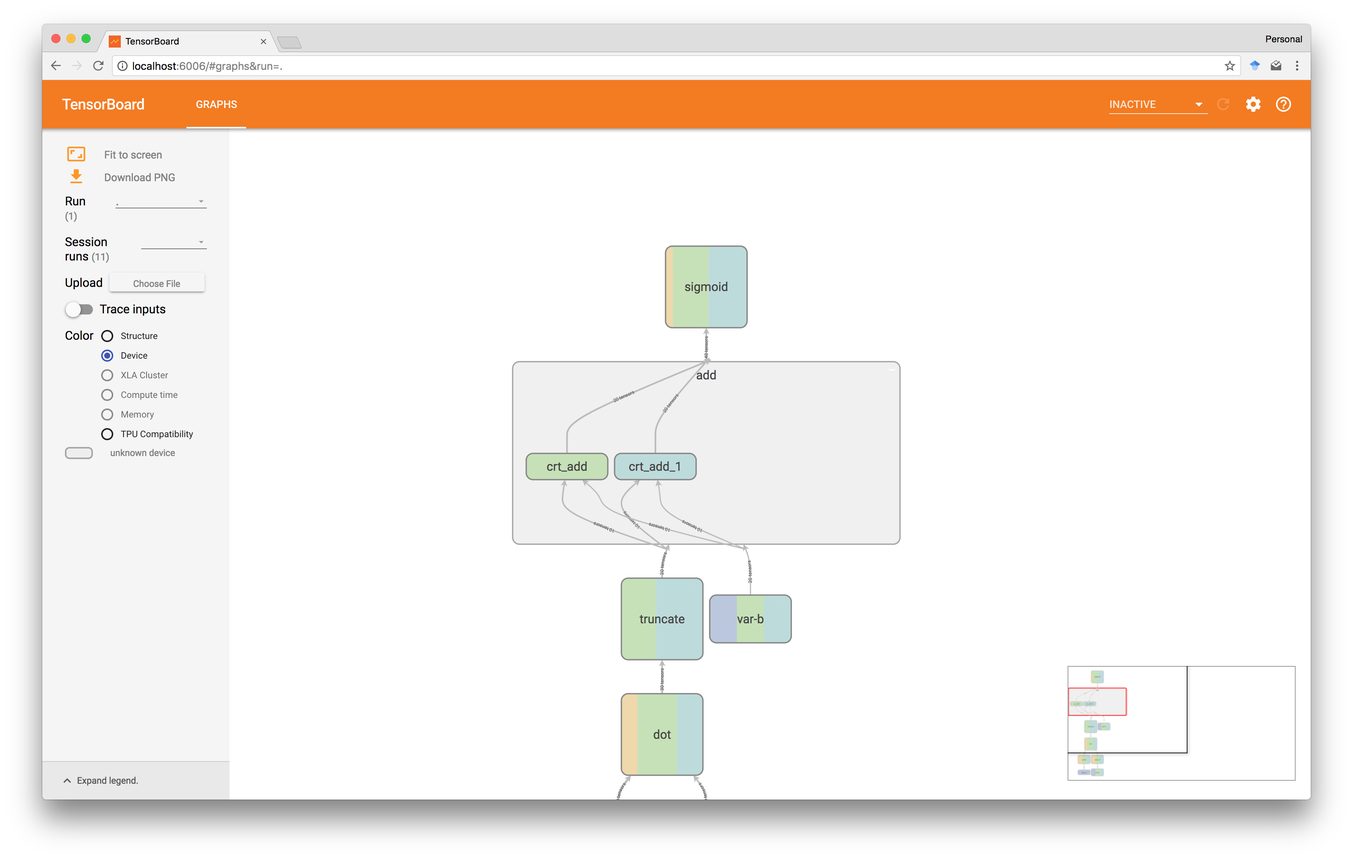
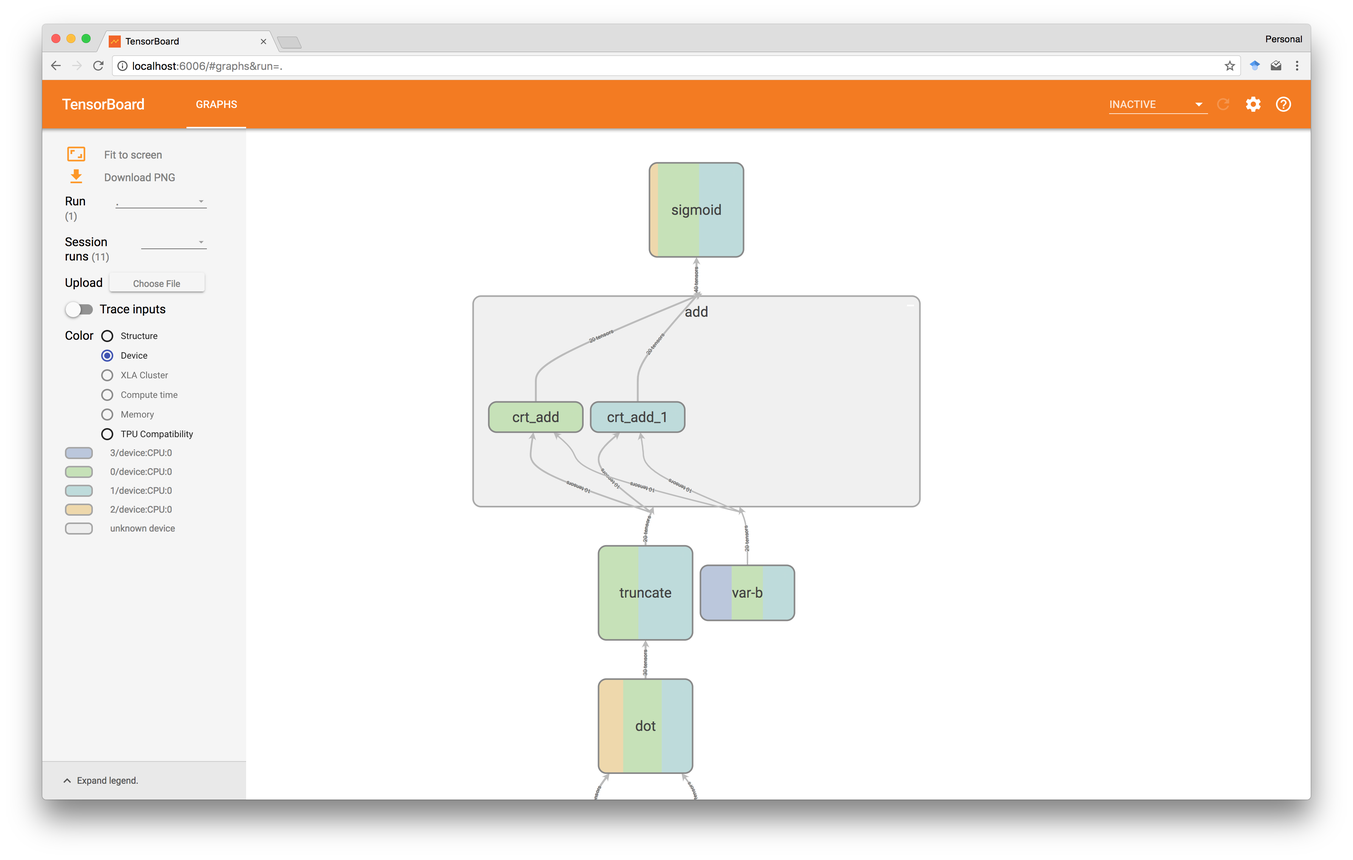
..

diff --git a/_posts/2018-03-01-secure-computation-as-dataflow-programs.md b/_posts/2018-03-01-secure-computation-as-dataflow-programs.md
@@ -7,8 +7,6 @@ author:     "Morten Dahl"
 header-img: "assets/tensorspdz/tensorflow.png"
 ---
 
-<em><strong>Small changes are still likely to happen for this post.</strong></em> 
-
 <em><strong>TL;DR:</strong> using TensorFlow as a distributed computation framework for dataflow programs we give a full implementation of the SPDZ protocol with networking, in turn enabling optimised machine learning on encrypted data.</em> 
 
 Unlike [earlier](/2017/09/03/the-spdz-protocol-part1/) where we focused on the concepts behind secure computation as well as [potential applications](/2017/09/19/private-image-analysis-with-mpc/), here we build a fully working (passively secure) implementation with players running on different machines and communicating via typical network stacks. And as part of this we investigate the benefits of using a [modern distributed computation](https://en.wikipedia.org/wiki/Dataflow_programming) platform when experimenting with secure computations, as opposed to building everything from scratch.
@@ -17,18 +15,18 @@ Additionally, this can also be seen as a step in the direction of getting privat
 
 Jumping ahead, it is clear in retrospect that TensorFlow is an obvious candidate framework for quickly experimenting with secure computation protocols, not least in the context of private machine learning.
 
-As always [all code](#running-the-code) is available to play with, in this case either locally or on [GCP](https://cloud.google.com/compute/). To keep it simple our running example throughout is private prediction using [logistic](https://beckernick.github.io/logistic-regression-from-scratch/) [regression](https://github.com/ageron/handson-ml/blob/master/04_training_linear_models.ipynb), meaning that given a private (i.e. encrypted) input `x` we wish to securely compute `sigmoid(dot(w, x) + b)` for private but pre-trained weights `w` and bias `b`. In a follow-up we consider private training of `w` and `b`.
+As always [all code](#experiments) is available to play with, in this case either locally or on [GCP](https://cloud.google.com/compute/). To keep it simple our running example throughout is private prediction using [logistic](https://beckernick.github.io/logistic-regression-from-scratch/) [regression](https://github.com/ageron/handson-ml/blob/master/04_training_linear_models.ipynb), meaning that given a private (i.e. encrypted) input `x` we wish to securely compute `sigmoid(dot(w, x) + b)` for private but pre-trained weights `w` and bias `b`. In a follow-up we consider private training of `w` and `b`.
 
-<em>A big thank you goes out to [Andrew Trask](https://twitter.com/iamtrask), [Kory Mathewson](https://twitter.com/korymath), and the [OpenMined community](https://twitter.com/openminedorg) for inspiration and interesting discussions on this topic!</em>
+<em>A big thank you goes out to [Andrew Trask](https://twitter.com/iamtrask), [Kory Mathewson](https://twitter.com/korymath), [Jan Leike](https://twitter.com/janleike), and the [OpenMined community](https://twitter.com/openminedorg) for inspiration and interesting discussions on this topic!</em>
 
-<em><strong>Disclaimer</strong>: this implementation is meant for experimentation only and may not live up to required security. In particular, TensorFlow does not currently seem to have been designed with this application in mind, and although it does not appear to be the case right now, may for instance in future versions perform optimisations behind that scene that break the intended security properties. [More notes](#next-steps) below.</em>
+<em><strong>Disclaimer</strong>: this implementation is meant for experimentation only and may not live up to required security. In particular, TensorFlow does not currently seem to have been designed with this application in mind, and although it does not appear to be the case right now, may for instance in future versions perform optimisations behind that scene that break the intended security properties. [More notes below](#next-steps).</em>
 
 
 # Motivation
 
 As hinted above, implementing secure computation protocols such as [SPDZ](/2017/09/03/the-spdz-protocol-part1/) is a non-trivial task due to their distributed nature, which is only made worse when we start to introduce various optimisations ([but](https://github.com/rdragos/awesome-mpc) [it](https://github.com/bristolcrypto/SPDZ-2) [can](https://github.com/aicis/fresco) [be](http://oblivc.org/) [done](https://github.com/encryptogroup/ABY)). For instance, one has to consider how to best orchestrate the simultanuous execution of multiple programs, how to minimise the overhead of sending data across the network, and how to efficient interleave it with computation so that one server only rarely waits on the other. On top of that, we might also want to support different hardware platforms, including for instance both CPUs and GPUs, and for any serious work it is highly valuable to have tools for visual inspection, debugging, and profiling in order to identify issues and bottlenecks.
 
-It should furthermore also be easy to experiment with various optimisations, such as transforming the computation for improved performance, [reusing intermediate results and masked values](/2017/09/19/private-image-analysis-with-mpc/#generalised-triples), and supplying fresh "raw material" in the form of [triples](/2017/09/03/the-spdz-protocol-part1/#multiplication) during the execution instead of only generating a large batch ahead of time in an offline phase. Getting all this right can be overwhelming, which is one reason earlier blog posts here focused on the principles behind secure computation protocols and simply did everything locally. 
+It should furthermore also be easy to experiment with various optimisations, such as transforming the computation for improved performance, [reusing intermediate results and masked values](/2017/09/19/private-image-analysis-with-mpc/#generalised-triples), and supplying fresh "raw material" in the form of [triples](/2017/09/03/the-spdz-protocol-part1/#multiplication) during the execution instead of only generating a large batch ahead of time in an offline phase. Getting all this right can be overwhelming, which is one reason our earlier blog posts focused on the principles behind secure computation protocols and simply did everything locally. 
 
 Luckily though, modern distributed computation frameworks such as [TensorFlow](https://www.tensorflow.org/) are receiving a lot of research and engineering attention these days due to their use in advanced machine learning on large data sets. And since our focus is on private machine learning there is a natural large fundamental overlap. In particular, the secure operations we are interested in are tensor addition, subtraction, multiplication, dot products, truncation, and sampling, which all have insecure but highly optimised counterparts in TensorFlow.
 
@@ -41,16 +39,16 @@ One important note though is that TensorFlow works by first constructing a stati
 
 ![](/assets/tensorspdz/structure.png)
 
-This means that our efforts in this post are concerned with building such a graph, as opposed to actual execution as earlier: we are to some extend making a small compiler that translates secure computations expressed in a simple language into TensorFlow programs. As a result we benefit not only from working at a higher level of abstraction but also from the large amount of research and engineering that have already gone into optimising graph execution in TensorFlow.
+This means that our efforts in this post are concerned with building such a graph, as opposed to actual execution as earlier: we are to some extend making a small compiler that translates secure computations expressed in a simple language into TensorFlow programs. As a result we benefit not only from working at a higher level of abstraction but also from the large amount of efforts that have already gone into optimising graph execution in TensorFlow.
 
-See [the code](#running-the-code) for a full example.
+See the [experiments](#experiments) for a full example.
 
 
 # Basics
 
 Our needs fit nicely with the operations already provided by TensorFlow as seen next, with one main exception: to match typical precision of floating point numbers when instead working with [fixedpoint numbers](/2017/09/03/the-spdz-protocol-part1/#fixedpoint-numbers) in the secure setting, we end up encoding into and operating on integers that are larger than what fits in the typical word sizes of 32 or 64 bits, yet today these are the only sizes for which TensorFlow provides operations (a constraint that may have something to do with current support on GPUs).
 
-Luckily though, for the operations we need there are efficient ways around this that allow us to simulate arithmetic on tensors of ~120 bit integers using a list of tensors with identical shape but of e.g. 32 bit integers. And this decomposition moreover has the nice property that we can often operate on each tensor in the list independently, so in addition to enabling the use of TensorFlow, this also allows most operations to be performed in parallel and can actually [increase efficiency](https://en.wikipedia.org/wiki/Residue_number_system) compared to operating on single larger numbers although it may initially sound more expensive. 
+Luckily though, for the operations we need there are efficient ways around this that allow us to simulate arithmetic on tensors of ~120 bit integers using a list of tensors with identical shape but of e.g. 32 bit integers. And this decomposition moreover has the nice property that we can often operate on each tensor in the list independently, so in addition to enabling the use of TensorFlow, this also allows most operations to be performed in parallel and can actually [increase efficiency](https://en.wikipedia.org/wiki/Residue_number_system) compared to operating on single larger numbers, despite the fact that it may initially sound more expensive. 
 
 We discuss the [details](/2018/01/29/the-chinese-remainder-theorem/) of this elsewhere and for the rest of this post simply assume operations `crt_add`, `crt_sub`, `crt_mul`, `crt_dot`, `crt_mod`, and `sample` that performed the expected operations on lists of tensors. Note that `crt_mod`, `crt_mul`, and `crt_sub` together allow us to define a right shift operation for [fixedpoint truncation](/2017/09/03/the-spdz-protocol-part1/#fixedpoint-numbers).
 
@@ -69,9 +67,13 @@ class PrivateTensor:
     @property
     def shape(self):
         return self.share0[0].shape
+        
+    @property
+    def unwrapped(self):
+        return self.share0, self.share1
 ```
 
-Note that thanks to TensorFlow we can know the tensor shapes at graph creation time, meaning we don't have to keep track of this ourselves.
+And thanks to TensorFlow we can know the shape of tensors at graph creation time, meaning we don't have to keep track of this ourselves.
 
 
 ## Simple operations
@@ -83,8 +85,8 @@ def add(x, y):
     assert isinstance(x, PrivateTensor)
     assert isinstance(y, PrivateTensor)
     
-    x0, x1 = x.share0, x.share1
-    y0, y1 = y.share0, y.share1
+    x0, x1 = x.unwrapped
+    y0, y1 = y.unwrapped
     
     with tf.name_scope('add'):
     
@@ -106,20 +108,20 @@ The [`tf.name_scope()`](https://www.tensorflow.org/api_docs/python/tf/name_scope
 
 ![](/assets/tensorspdz/add.png)
 
-Note that by selecting *Device* coloring in TensorBoard we can also use it to verify where the operations were actually computed, in this case checking that addition was indeed done locally by the two servers (green and turquoise).
+Note that by selecting *Device* coloring in TensorBoard as done above we can also use it to verify where the operations were actually computed, in this case that addition was indeed done locally by the two servers (green and turquoise).
 
 
 ## Dot products
 
-We next turn to dot products. This is significantly more complexity, not least since we now need to involve the crypto producer, but also since the two servers have to communicate with each other as part of the computation.
+We next turn to dot products. This is more complex, not least since we now need to involve the crypto producer, but also since the two servers have to communicate with each other as part of the computation.
 
 ```python
 def dot(x, y):
     assert isinstance(x, PrivateTensor)
     assert isinstance(y, PrivateTensor)
 
-    x0, x1 = x.share0, x.share1
-    y0, y1 = y.share0, y.share1
+    x0, x1 = x.unwrapped
+    y0, y1 = y.unwrapped
 
     with tf.name_scope('dot'):
 
@@ -169,7 +171,7 @@ However, with `tf.device()` we see that this is still relatively straight-forwar
 
 With `crt_sub` we then build graphs for the two servers that mask `x` and `y` using `a` and `b` respectively. TensorFlow will again take care of inserting networking code that sends the value of e.g. `a0` to `SERVER_0` during execution.
 
-In the third step we then reconstruct `alpha` and `beta` on each server, and compute the recombination step to get the dot product. Note that we have to define `alpha` and `beta` twice, one for each server, since although they contain the same value, if we had instead define them only on one server but used them on both, then we would implicitly have inserted additional networking operations and hence slowed down the computation.
+In the third step we reconstruct `alpha` and `beta` on each server, and compute the recombination step to get the dot product. Note that we have to define `alpha` and `beta` twice, one for each server, since although they contain the same value, if we had instead define them only on one server but used them on both, then we would implicitly have inserted additional networking operations and hence slowed down the computation.
 
 ![](/assets/tensorspdz/dot.png)
 
@@ -190,17 +192,19 @@ INPUT_PROVIDER  = '/job:{}/task:3'.format(JOB_NAME)
 OUTPUT_RECEIVER = '/job:{}/task:4'.format(JOB_NAME)
 
 HOSTS = [
-    'localhost:4440',
-    'localhost:4441',
-    'localhost:4442',
-    'localhost:4443',
-    'localhost:4444'
+    '10.132.0.4:4440',
+    '10.132.0.5:4441',
+    '10.132.0.6:4442',
+    '10.132.0.7:4443',
+    '10.132.0.8:4444',
 ]
 
 CLUSTER = tf.train.ClusterSpec({
     JOB_NAME: HOSTS
 })
 ```
+
+<em>Note that in the screenshots we are actually running the input provider and output receiver on the same host, and hence both show up as `3/device:CPU:0`.</em>
 
 Finally, the code that each player executes is about as simple as it gets.
 
@@ -222,7 +226,7 @@ With the basics in place we can look at a few optimisations.
 
 Our first improvement allows us to reuse computations. For instance, if we need the result of `dot(x, y)` twice then we want to avoid computing it a second time and instead reuse the first. Concretely, we want to keep track of nodes in the graph and link back to them whenever possible.
 
-To do this we simply maintain a glocal dictionary of `PrivateTensor` references as we build the graph, and use this for looking up already existing results before adding new nodes. For instance, `dot` now becomes as follows.
+To do this we simply maintain a global dictionary of `PrivateTensor` references as we build the graph, and use this for looking up already existing results before adding new nodes. For instance, `dot` now becomes as follows.
 
 ```python
 def dot(x, y):
@@ -248,11 +252,9 @@ While already significant for some applications, this change also opens up for o
 
 ## Reusing masked tensors
 
-We have [already](/2017/09/10/the-spdz-protocol-part2/) [mentioned](/2017/09/19/private-image-analysis-with-mpc/#generalised-triples) that we'd ideally want to only mask every private tensor once to primarily save on networking. For instance, if we are computing both `dot(w, x)` and `dot(w, y)` then we want to use the same masked version of `w` in both: if we are e.g. doing multiple predictions with the same weights `w` then in the long term the initial cost of masking `w` can be amortised away.
+We have [already](/2017/09/10/the-spdz-protocol-part2/) [mentioned](/2017/09/19/private-image-analysis-with-mpc/#generalised-triples) that we'd ideally want to mask every private tensor at most once to primarily save on networking. For instance, if we are computing both `dot(w, x)` and `dot(w, y)` then we want to use the same masked version of `w` in both. Specifically, if we are doing many operations with the same masked tensor then the cost of masking it can be amortised away.
 
-To implement this we first note that the [dataflow nature](https://arxiv.org/abs/1603.04467) of TensorFlow will take care of only recomputing the parts of the graph that actually change when the input values are changed. For instance, an application that computes `dot(w, x)` will reuse the value of `w` between executions with different values of `x` (unless of course `w` somehow depends on `x` elsewhere). However, with the current setup we will still mask `w` every time we compute `dot`.
-
-To avoid this we simply make masking an explicit `mask` operation, which also allows us to use the same masked version across different operations, e.g. both `dot` and `mul`.
+But with the current setup we mask every time we compute e.g. `dot` or `mul` since masking is baked into these. So to avoid this we simply make masking an explicit operation, additionally allowing us to also use the same masked version across different operations.
 
 ```python
 def mask(x):
@@ -260,10 +262,10 @@ def mask(x):
     
     node_key = ('mask', x)
     masked = nodes.get(node_key, None)
-    
+
     if masked is None:
       
-        x0, x1 = x.share0, x.share1
+        x0, x1 = x.unwrapped
         shape = x.shape
       
         with tf.name_scope('mask'):
@@ -281,34 +283,56 @@ def mask(x):
             # exchange of alphas
 
             with tf.device(SERVER_0):
-                alpha = reconstruct(alpha0, alpha1)
-                alpha_on_0 = alpha
+                alpha_on_0 = reconstruct(alpha0, alpha1)
 
             with tf.device(SERVER_1):
-                alpha = reconstruct(alpha0, alpha1)
-                alpha_on_1 = alpha
+                alpha_on_1 = reconstruct(alpha0, alpha1)
 
-        masked = (a, a0, a1, alpha_on_0, alpha_on_1)
+        masked = MaskedPrivateTensor(a, a0, a1, alpha_on_0, alpha_on_1)
         nodes[node_key] = masked
         
     return masked
 ```
 
+Note that we introduce a `MaskedPrivateTensor` class as part of this, which is again simply a convenient way of abstracting over the five lists of tensors we get from `mask(x)`.
+
+```python
+class MaskedPrivateTensor(object):
+
+    def __init__(self, a, a0, a1, alpha_on_0, alpha_on_1):
+        self.a  = a
+        self.a0 = a0
+        self.a1 = a1
+        self.alpha_on_0 = alpha_on_0
+        self.alpha_on_1 = alpha_on_1
+
+    @property
+    def shape(self):
+        return self.a[0].shape
+
+    @property
+    def unwrapped(self):
+        return self.a, self.a0, self.a1, self.alpha_on_0, self.alpha_on_1
+```
+
+
 With this we may rewrite `dot` as below, which is now only responsible for the recombination step.
 
 ```python
 def dot(x, y):
-    assert isinstance(x, PrivateTensor)
-    assert isinstance(y, PrivateTensor)
+    assert isinstance(x, PrivateTensor) or isinstance(x, MaskedPrivateTensor)
+    assert isinstance(y, PrivateTensor) or isinstance(y, MaskedPrivateTensor)
 
     node_key = ('dot', x, y)
     z = nodes.get(node_key, None)
 
     if z is None:
+      
+        if isinstance(x, PrivateTensor): x = mask(x)
+        if isinstance(y, PrivateTensor): y = mask(y)
 
-        # make sure we have masked version of both inputs
-        a, a0, a1, alpha_on_0, alpha_on_1 = mask(x)
-        b, b0, b1,  beta_on_0,  beta_on_1 = mask(y)
+        a, a0, a1, alpha_on_0, alpha_on_1 = x.unwrapped
+        b, b0, b1,  beta_on_0,  beta_on_1 = y.unwrapped
 
         with tf.name_scope('dot'):
 
@@ -344,57 +368,80 @@ As a verification we can see that TensorBoard shows us the expected graph struct
 
 Here the value of `square(x)` is first computed, then masked, and finally reused in four multiplications.
 
+There is an inefficiency though: while the [dataflow nature](https://arxiv.org/abs/1603.04467) of TensorFlow will in general take care of only recomputing the parts of the graph that have changed between two executions, this does not apply to operations involving sampling via e.g. [`tf.random_uniform`](https://www.tensorflow.org/api_docs/python/tf/random_uniform), which is used in our sharing and masking. Consequently, masks are not being reused across executions.
+
+
+## Caching values
+
+To get around the above issue we can introduce caching of values that survive across different executions of the graph, and an easy way of doing this is to store tensors in [variables](https://www.tensorflow.org/api_docs/python/tf/Variable). Normal executions will read from these, while an explicit `cache_populators` set of operations allow us to populated them.
+
+For example, wrapping our two tensors `w` and `b` with such `cache` operation gets us the above graph.
+
+![](/assets/tensorspdz/cached.png)
+
+When executing the cache population operations TensorFlow automatically figures out which subparts of the graph it needs to execute to generate the values to be cached, and which can be ignored.
+
+![](/assets/tensorspdz/cached-populate.png)
+
+And likewise when predicting, in this case skipping sharing and masking.
+
+![](/assets/tensorspdz/cached-predict.png)
+
+
 
 ## Buffering triples
 
 Recall that a main purpose of [triples](/2017/09/03/the-spdz-protocol-part1/#multiplication) is to move the computation of the crypto producer to an *offline phase* and distribute its results to the two servers ahead of time in order to speed up their computation later during the *online phase*. 
 
-So far we haven't done anything to specify that this should happen though, and from reading the above code it's not unreasonable to assume that the crypto producer will instead compute in synchronisation with the two servers, injecting idle waiting periods throughout their computation. However, from experiments it seems that TensorFlow is smart enough here to optimise the graph to do the right thing and batch triple distribution, presumably to save on networking.
+So far we haven't done anything to specify that this should happen though, and from reading the above code it's not unreasonable to assume that the crypto producer will instead compute in synchronisation with the two servers, injecting idle waiting periods throughout their computation. However, from experiments it seems that TensorFlow is already smart enough to optimise the graph to do the right thing and batch triple distribution, presumably to save on networking. We still have an initial waiting period though, that we could get rid of by introducing a separate compute-and-distribute execution that fills up buffers.
 
 ![](/assets/tensorspdz/tracing.png)
 
-However, we still have an initial waiting period that we could get rid of by introducing a separate compute-and-distribute execution that fills up buffers.
-
-<!--In principle this is entirely straight forward using e.g. `tf.FIFOQueue`, yet there is one obstacle we have to deal with.-->
-
-<em>(Coming soon...)</em>
+We'll skip this issue for now and instead return to it when looking at private training. Like here, it is not unreasonable to expect significant performance improvements there from distributing the training data ahead of time.
 
 
 # Profiling
 
-As a final reason to be excited about building dataflow programs in TensorFlow we also look at the built-in [runtime statistics](https://www.tensorflow.org/programmers_guide/graph_viz#runtime_statistics). We have already seen the built-in detailed tracing support above, but in TensorBoard we can also easily see how expensive each operation was both in terms of compute and memory.
+As a final reason to be excited about building dataflow programs in TensorFlow we also look at the built-in [runtime statistics](https://www.tensorflow.org/programmers_guide/graph_viz#runtime_statistics). We have already seen the built-in detailed tracing support above, but in TensorBoard we can also easily see how expensive each operation was both in terms of compute and memory. The numbers reported here are from the [experiments](#experiments) below.
 
 ![](/assets/tensorspdz/computetime.png)
 
-The heatmap above e.g. shows that `sigmoid` was the most expensive operation in the run and that the dot product took roughly 29ms to execute (using the [localhost configuration](#running-the-code)). Moreover, in the below figure we have navigated further into the dot block and can see that sharing was probably the most expensive sub-operation, in this particular run taking about 8ms.
+The heatmap above e.g. shows that `sigmoid` was the most expensive operation in the run and that the dot product took roughly 30ms to execute. Moreover, in the below figure we have navigated further into the dot block and see that sharing in this particular run taking about 3ms.
 
 ![](/assets/tensorspdz/computetime-detailed.png)
 
 This way we can potentially identify bottlenecks and compare performance of different approaches. And if needed we can of course switch to tracing for even more details.
 
 
-# Running the Code
+# Experiments
 
-All code is available in the [GitHub repository](https://github.com/mortendahl/privateml/tree/master/tensorflow/spdz/) including instructions for setting up either a local or a GCP configuration of hosts. It also comes with a few examples, including private logistic regression as used here.
+The [GitHub repository](https://github.com/mortendahl/privateml/tree/master/tensorflow/spdz/) contains the code needed for experimentation, including examples and instructions for setting up either a [local configuration](https://github.com/mortendahl/privateml/tree/master/tensorflow/spdz/configs/localhost) or a [GCP configuration](https://github.com/mortendahl/privateml/tree/master/tensorflow/spdz/configs/gcp) of hosts. For the running example of private prediciton using a logistic regression model we use the GCP configuration, i.e. the parties are running on different virtual hosts located in the same Google Cloud zone, here on some of the weaker instances, namely dual core and 10GB memory.
 
-A typical secure computation might take the form shown below, where we first build a graph and then execute it.
+A slightly simplified version of our program is as follows, where we first train a model in public, build a graph for the private prediction computation, and then run it in a fresh session.
 
 ```python
 from config import session
-from tensorspdz import *
+from tensorspdz import (
+    define_input, define_variable,
+    add, dot, sigmoid, cache, mask,
+    encode_input, decode_output
+)
 
 # publicly train `weights` and `bias`
-weights = ...
-bias = ...
+weights, bias = train_publicly()
 
 # define shape of unknown input
-shape_x = ...
+shape_x = X.shape
 
 # construct graph for private prediction
 input_x, x = define_input(shape_x, name='x')
 
 init_w, w = define_variable(weights, name='w')
 init_b, b = define_variable(bias, name='b')
+
+if use_caching:
+    w = cache(mask(w))
+    b = cache(b)
 
 y = sigmoid(add(dot(x, w), b))
 
@@ -403,6 +450,10 @@ with session() as sess:
 
     # share and distribute `weights` and `bias` to the two servers
     sess.run([init_w, init_b])
+    
+    if use_caching:
+        # compute and store cached values
+        sess.run(cache_populators)
 
     # prepare to use `X` as private input for prediction
     feed_dict = encode_input([
@@ -415,16 +466,28 @@ with session() as sess:
     print decode_output(y_pred)
 ```
 
-Note that as mentioned in the beginning, this code is meant for experimentation only and should not be put in a production environment.
+Running this a few times with different sizes of `X` gives the timings below, where the entire computation is considered including triple generation and distribution; slightly surprisingly there were no real difference between caching masked values or not.
+
+<center>
+<img width="80%" height="80%" src="/assets/tensorspdz/timings-10000.png" />
+</center>
+
+Processing batches of size 1, 10, and 100 took roughly the same time, ~60ms on average, which might suggest a lower latency bound due to networking. At 1000 the time jumps to ~110ms, at 10,000 to ~600ms, and finally at 100,000 to ~5s. As such, if latency is important than we can perform ~1600 predictions per second, while if more flexible then at least ~20,000 per second.
+
+<center>
+<img width="80%" height="80%" src="/assets/tensorspdz/timings-100000.png" />
+</center>
+
+This however is measuring only timings reported by profiling, with actual execution time taking a bit longer; hopefully some of the production-oriented tools such as [`tf.serving`](https://www.tensorflow.org/serving/) that come with TensorFlow can improve on this.
 
 
-# Next Steps
+# Thoughts
 
-Having seen the basics for doing secure computation with TensorFlow we next turn to further optimisations and more realistic experiments. Concretely, we look at private training of logistic regression models, and on a realistic data set as opposed to the toy data set used here.
+After private prediction it'll of course also be interesting to look at private training. Caching of masked training data might be more relevant here since it remains fixed through-out the process.
 
-We could also aim at improving the serving of models for private predictions. In particular, using the production-ready [`tf.serving`](https://www.tensorflow.org/serving/) we might be able to avoid much of the initial overhead we current have in orchestration, as well as having endpoints that can be [safely exposed](https://github.com/tensorflow/tensorflow/blob/master/SECURITY.md) to the public.
+The serving of models can also be improved, using for instance the production-ready [`tf.serving`](https://www.tensorflow.org/serving/) we might be able to avoid much of the initial overhead we current have in orchestration, as well as having endpoints that can be [safely exposed](https://github.com/tensorflow/tensorflow/blob/master/SECURITY.md) to the public.
 
-Finally, there are also security improvements to be made on e.g. communication between the five parties. In particular, in the current version of TensorFlow all communication is happening over unencrypted and unauthenticated [gRPC](https://grpc.io/) connections, which means that someone listening in on the network traffic in principle could learn all private values. Since support for [TLS](https://grpc.io/docs/guides/auth.html) is already there in gRPC it might be straight-forward to make use of it in TensorFlow without a significant impact on performance.
+Finally, there are security improvements to be made on e.g. communication between the five parties. In particular, in the current version of TensorFlow all communication is happening over unencrypted and unauthenticated [gRPC](https://grpc.io/) connections, which means that someone listening in on the network traffic in principle could learn all private values. Since support for [TLS](https://grpc.io/docs/guides/auth.html) is already there in gRPC it might be straight-forward to make use of it in TensorFlow without a significant impact on performance. Likewise, TensorFlow does not currently use a strong pseudo-random generator for [`tf.random_uniform`](https://www.tensorflow.org/api_docs/python/tf/random_uniform).
 
 
 <!--
@@ -433,6 +496,7 @@ Finally, there are also security improvements to be made on e.g. communication b
 - https://learningtensorflow.com/lesson11/
 - [XLA](https://www.tensorflow.org/performance/xla/)
 
+TODO overhead compared to plain (maybe wait until training?)
 
 https://www.tensorflow.org/programmers_guide/graphs
 https://en.wikipedia.org/wiki/Dataflow_programming
